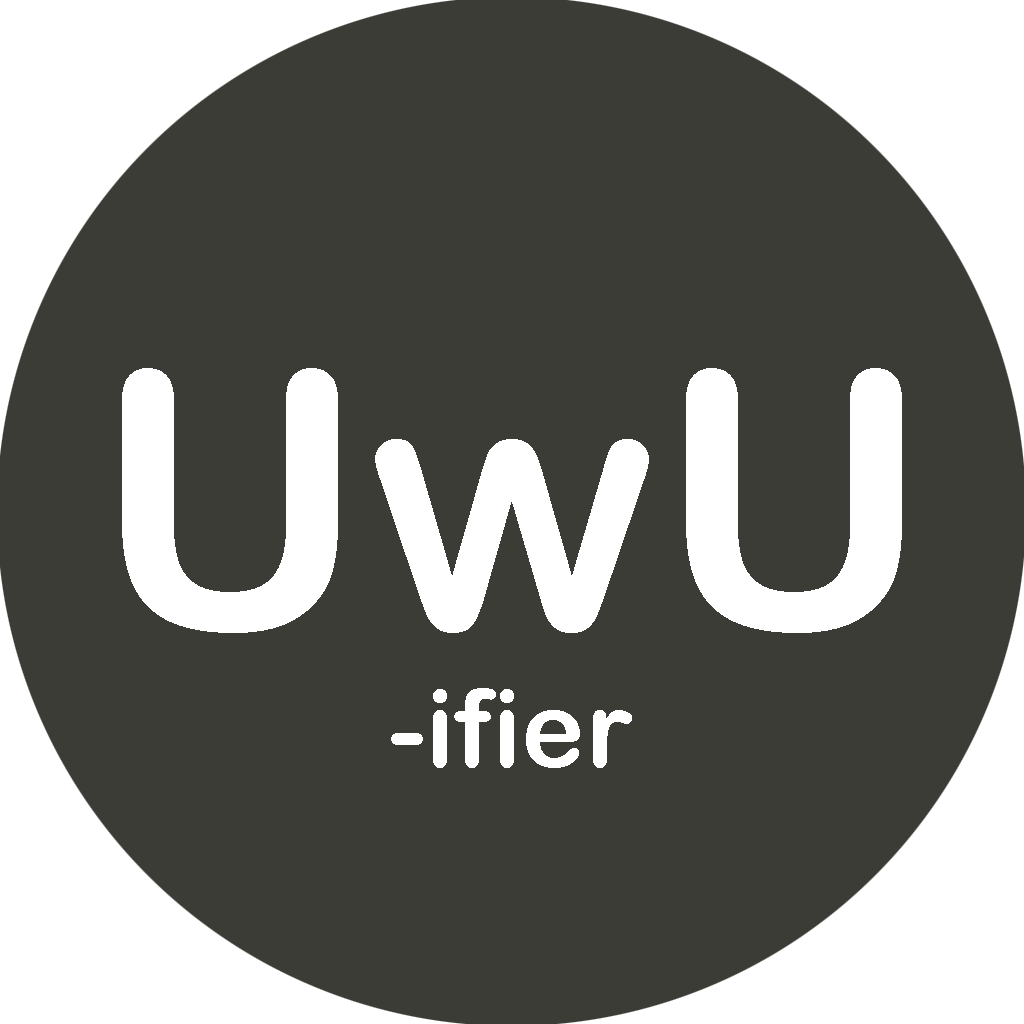
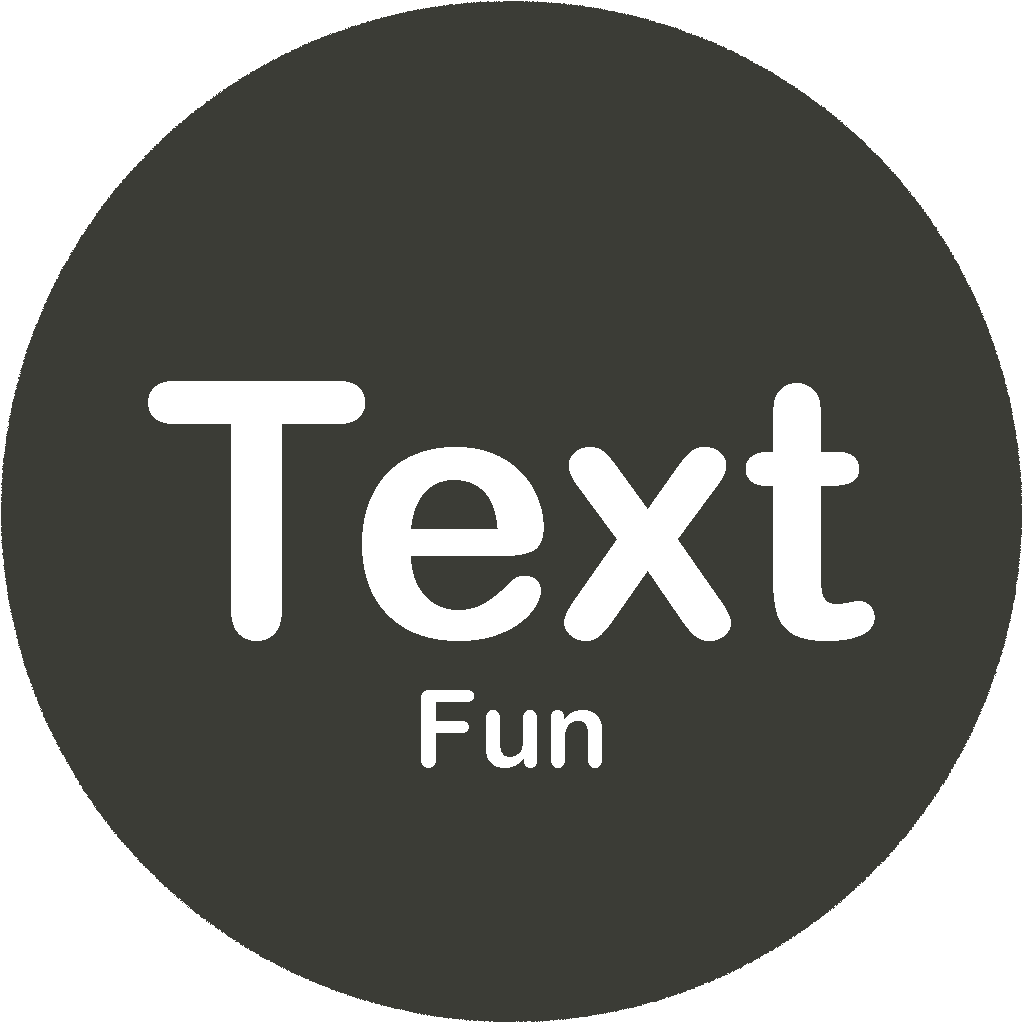
Rebranding to TextFun

diff --git a/README.md b/README.md
@@ -7,7 +7,7 @@
     <img src="icon.png" alt="Icon" width="80" height="80">
   </a>
 
-  <h3 align="center">Uwuifier Bot</h3>
+  <h3 align="center">TextFun</h3>
   <img src='https://img.shields.io/github/license/artificialbutter/Uwuifier-Discord-Bot?style=flat-square'>
 
   <p align="center">
@@ -45,14 +45,18 @@
 <img src="screenshot.png"
          alt="Screenshot">
 
-The Uwuifier discord bot is a easy way to "Uwuify" your messages in discord.
-Have you ever used uwuifier.com? This bot works just like it!
-If not, here's what it does
-It first adds s-s-stutters to the sentence you give it, then adds random w's to the sentence, and finally adds faces and text like x3 *boops nose*.
+The TextFun discord bot is a easy way to mess around with text in discord.
+You can uwuify text, turn it into a emojipasta, or even convert it to morse code. (with more coming soon)
 
-All that results in this:
-Have you evew *sweats* used uwuifiew.com?!?! This bot wowks just *blushes* wike *whispers to self* it!?
-If nyot, hewe's what i-it does It fiwst adds s-s-stuttews t-to the x3 sentence you give it, then adds wandom w's *sweats* t-to the x3 sentence, and finyawwy adds faces and text wike *whispers to self* x3 *boops nyose*.
+So that looks like this:
+This bot 🤖 allows you 😽🤲 to mess 😏 around 💞 with text 😱📲 in 🏽 multiple different 🚿🛀🧖🏼♀🙆🏼♀🤸🏻♀💅 ways. 💫 This test ✍📖📑 sentence 📜 demonstrates the capabilities of the TextFun bot. 🤖
+This bot a-a-awwows you t-to mess awound with text in muwtipwe diffewent ways. This test sentence demonstwates the x3 capabiwities of the x3 T-TextFun bot. boops your nose
+- .... .. ...   -... --- -   .- -.- -.- --- .-- ...   -.-- --- ..-   - ---   -- . ... ...   .- .-. --- ..- -- -..   .-- .. - ....   - . -..- -   .. --   -- ..- -.- - .. .--. -.- .   -.. .. ..-. ..-. . .-. . -- -   .-- .- -.-- ... .-.-.-   - .... .. ...   - . ... -   ... . -- - . -- -.-. .   -.. . -- --- -- ... - .-. .- - . ...   - .... .   -.-. .- .--. .- -... .. -.- .. - .. . ...   --- ..-.   - .... .   - . -..- - ..-. ..- --   -... --- - .-.-.-
+
+
+The bot uses Discord Slash Commands, so you can find the command list in your discord client. (See Discord's <a href="https://support.discord.com/hc/en-us/articles/1500000368501-Slash-Commands-FAQ">Slash Command FAQ</a> for more info)
+
+
 
 <p align="right">(<a href="#top">back to top</a>)</p>
 
